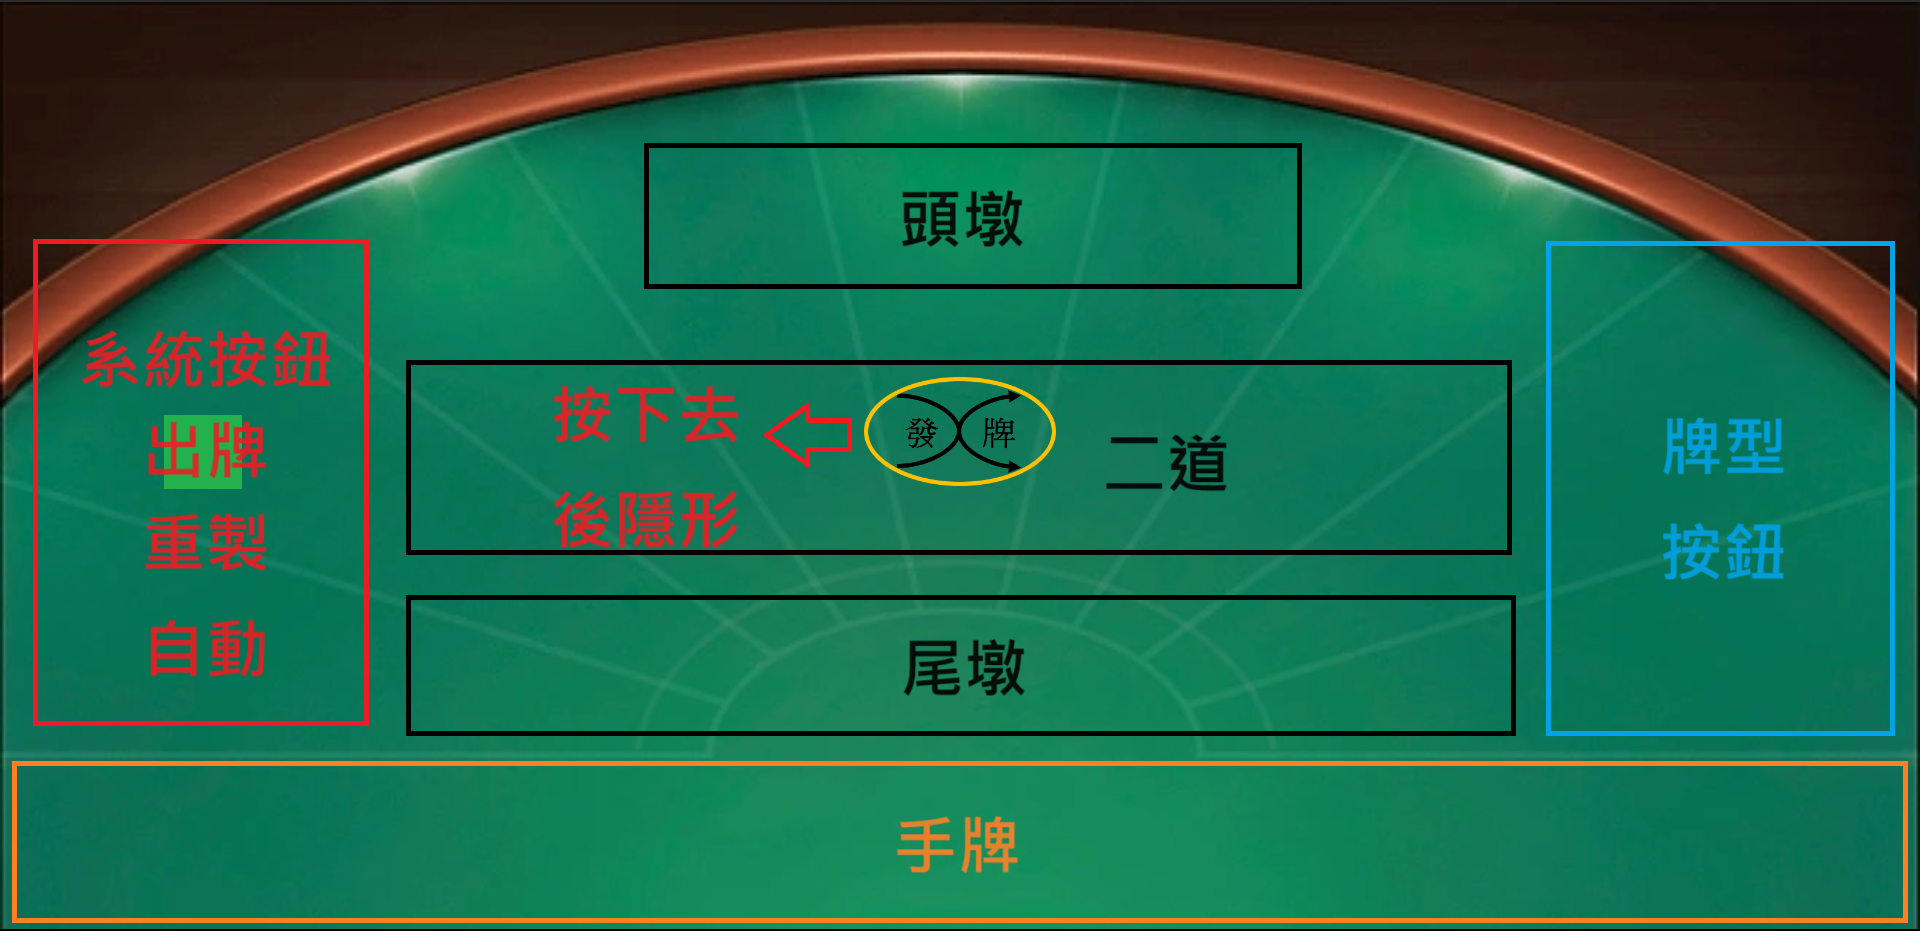
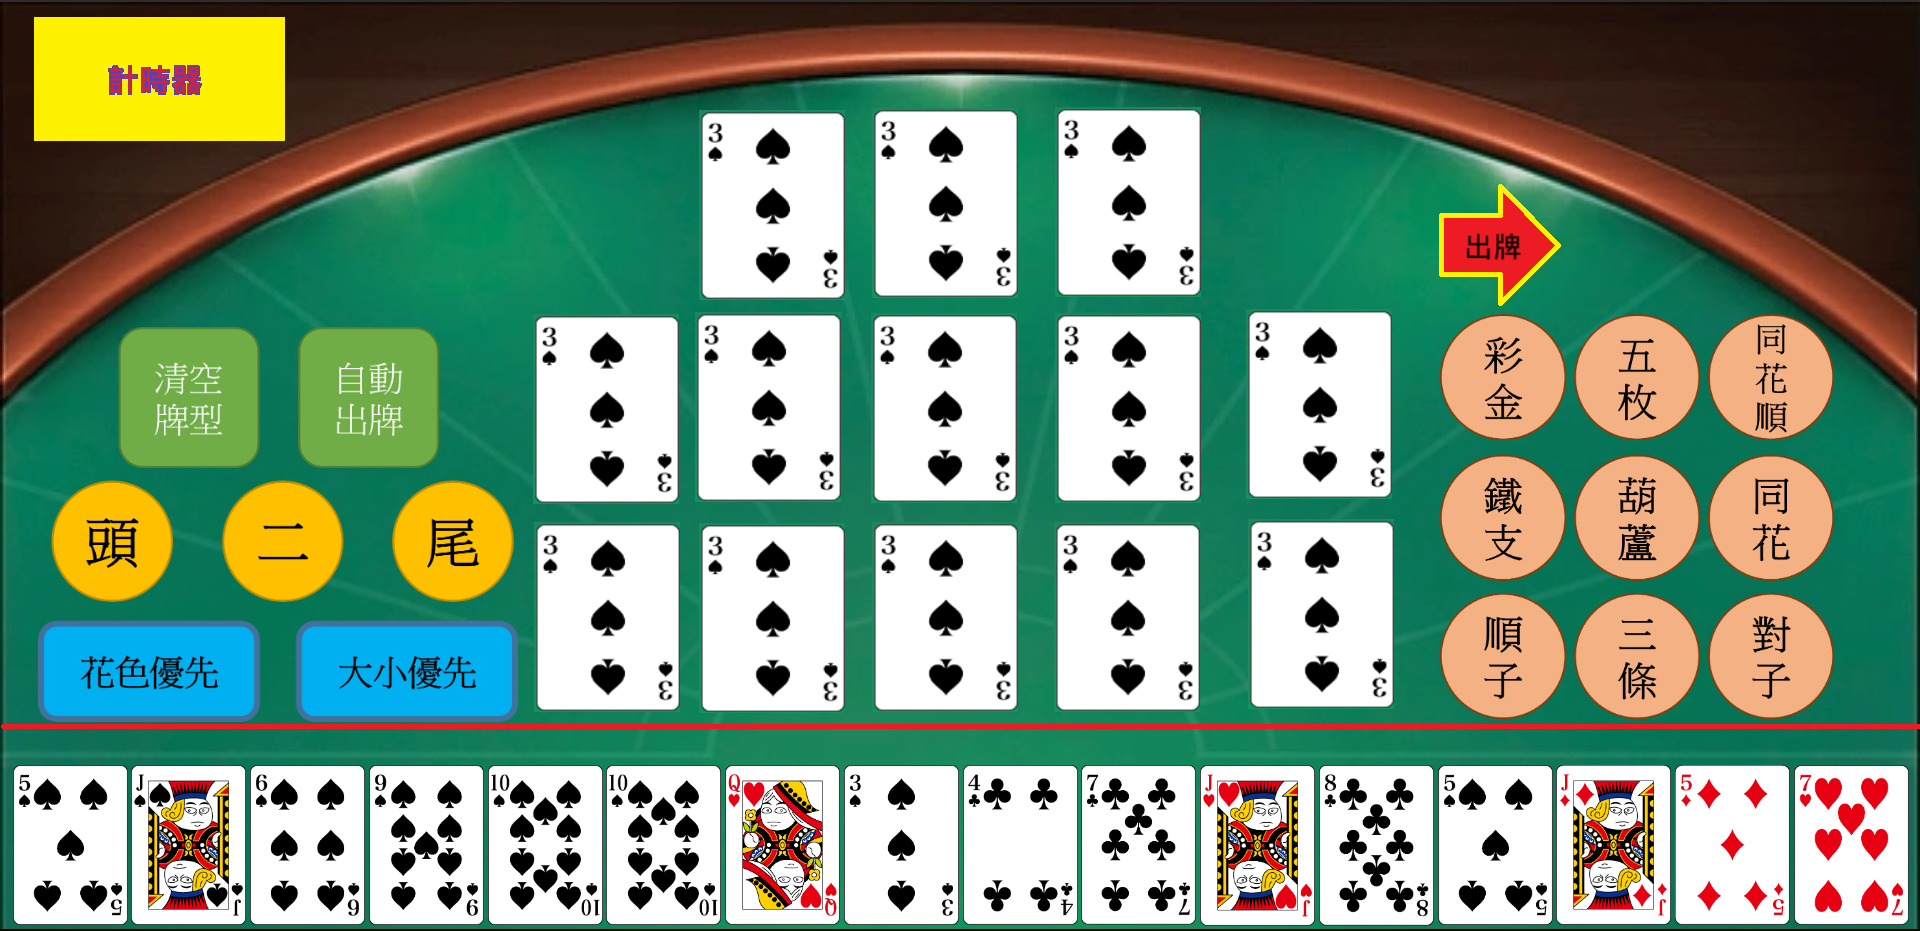
調整預想版面+發牌優化

diff --git a/13支-單人遊戲-01157108+01157103.html b/13支-單人遊戲-01157108+01157103.html
@@ -22,94 +22,120 @@
                 top:610px;
                 filter:drop-shadow(red);
             }
+            #test1{
+                position:absolute;
+                width:25%;
+                left:30px;
+                top:260px;
+            }
+            #test2 {
+                position: absolute;
+                height:45%;
+                left: 75%;
+                top: 245px;
+            }
         </style>
     </head >
     <body>
         <img src="imgs/發牌.png" onclick="deal()" id="deal" />
-        <img src="imgs/n0.png" id="p1" class="cards"/>
-        <img src="imgs/n0.png" id="p2" class="cards"/>
-        <img src="imgs/n0.png" id="p3" class="cards"/>
-        <img src="imgs/n0.png" id="p4" class="cards"/>
-        <img src="imgs/n0.png" id="p5" class="cards"/>
-        <img src="imgs/n0.png" id="p6" class="cards"/>
-        <img src="imgs/n0.png" id="p7" class="cards"/>
-        <img src="imgs/n0.png" id="p8" class="cards"/>
-        <img src="imgs/n0.png" id="p9" class="cards"/>
-        <img src="imgs/n0.png" id="p10" class="cards"/>
-        <img src="imgs/n0.png" id="p11" class="cards"/>
-        <img src="imgs/n0.png" id="p12" class="cards"/>
-        <img src="imgs/n0.png" id="p13" class="cards"/>
-        <img src="imgs/n0.png" id="p14" class="cards"/>
-        <img src="imgs/n0.png" id="p15" class="cards"/>
-        <img src="imgs/n0.png" id="p16" class="cards"/>
+        <img src="imgs/n0.png" id="p1" class="cards" />
+        <img src="imgs/n0.png" id="p2" class="cards" />
+        <img src="imgs/n0.png" id="p3" class="cards" />
+        <img src="imgs/n0.png" id="p4" class="cards" />
+        <img src="imgs/n0.png" id="p5" class="cards" />
+        <img src="imgs/n0.png" id="p6" class="cards" />
+        <img src="imgs/n0.png" id="p7" class="cards" />
+        <img src="imgs/n0.png" id="p8" class="cards" />
+        <img src="imgs/n0.png" id="p9" class="cards" />
+        <img src="imgs/n0.png" id="p10" class="cards" />
+        <img src="imgs/n0.png" id="p11" class="cards" />
+        <img src="imgs/n0.png" id="p12" class="cards" />
+        <img src="imgs/n0.png" id="p13" class="cards" />
+        <img src="imgs/n0.png" id="p14" class="cards" />
+        <img src="imgs/n0.png" id="p15" class="cards" />
+        <img src="imgs/n0.png" id="p16" class="cards" />
+        <img src="imgs/模擬1.png" id="test1" />
+        <img src="imgs/模擬2.png" id="test2" />
         <script>
             //有poker串列用0~64代表牌庫，index[0]是彩金牌，index[1]~[16]是玩家1，index[17]~[32]是玩家2，index[33]~[48]是玩家，index[49]~[64]是玩家3的手牌
             //牌型:數字1~13是梅花(c)1~13，14~26是方塊(d)1~13，27~39是紅心(h)1~13，40~65是(s)黑桃1~13共兩次
             let poker = new Array(65);
+            let playerA = new Array(16);
+            let playerB = new Array(16);
+            let playerC = new Array(16);
+            let playerD = new Array(16);
             let temp = 0;
             let word = "";
+            let i = 0;
             for (let i = 0; i < 65; i++) {//建立牌組
                 poker[i] = i + 1;
             }
-
             function shuffle() {//洗牌
                 poker.sort(() => Math.random() - 0.5);
             }
             function deal() {//洗牌並發牌給玩家
                 shuffle();
                 document.querySelector("#deal").style.display = "none";
-                for (let i = 1; i <= 16; i++) {//玩家有16張牌
-                    document.querySelector("#p" + i).style.left = (i - 1) * 95 + 10 + "px";
-                    temp = Math.floor(poker[i] / 13);
+                for (i = 1; i <= 16; i++) {//發牌(方便使用整理功能而重建)
+                    playerA[i - 1] = poker[i];
+                    playerB[i - 1] = poker[i + 16];
+                    playerC[i - 1] = poker[i + 32];
+                    playerD[i - 1] = poker[i + 48];
+                }
+                for (i = 0; i < 16; i++) {//顯示手牌
+                    document.querySelector("#p" + (i + 1)).style.left = i * 95 + 10 + "px";
+                    temp = Math.floor(playerA[i] / 13);
                     switch (temp) {
                         case 0://c
-                            word = "imgs/c" + poker[i] + ".png";
-                            document.getElementById("p" + i).src = word;
+                            word = "imgs/c" + playerA[i] + ".png";
+                            document.getElementById("p" + (i + 1)).src = word;
                             break;
                         case 1://d
-                            if (poker[i]-13 != 0) {
-                                word = "imgs/d" + (poker[i]-13) + ".png";
+                            if (playerA[i] - 13 != 0) {
+                                word = "imgs/d" + (playerA[i] - 13) + ".png";
                             }
                             else {
                                 word = "imgs/c" + 13 + ".png";
                             }
-                            document.getElementById("p" + i).src = word;
+                            document.getElementById("p" + (i + 1)).src = word;
                             break;
                         case 2://h
-                            if (poker[i] - 26 != 0) {
-                                word = "imgs/h" + (poker[i] - 26) + ".png";
+                            if (playerA[i] - 26 != 0) {
+                                word = "imgs/h" + (playerA[i] - 26) + ".png";
                             }
                             else {
                                 word = "imgs/d" + 13 + ".png";
                             }
-                            document.getElementById("p" + i).src = word;
+                            document.getElementById("p" + (i + 1)).src = word;
                             break;
                         case 3://s
-                            if (poker[i] - 39 != 0) {
-                                word = "imgs/s" + (poker[i] - 39) + ".png";
+                            if (playerA[i] - 39 != 0) {
+                                word = "imgs/s" + (playerA[i] - 39) + ".png";
                             }
                             else {
                                 word = "imgs/h" + 13 + ".png";
                             }
-                            document.getElementById("p" + i).src = word;
+                            document.getElementById("p" + (i + 1)).src = word;
                             break;
-                        case 4://s                           
-                            if (poker[i] - 52 != 0) {
-                                word = "imgs/s" + (poker[i] - 52) + ".png";
+                        case 4://s
+                            if (playerA[i] - 52 != 0) {
+                                word = "imgs/s" + (playerA[i] - 52) + ".png";
                             }
                             else {
                                 word = "imgs/s" + 13 + ".png";
-                            }                          
-                            document.getElementById("p" + i).src = word;
+                            }
+                            document.getElementById("p" + (i + 1)).src = word;
                             break;
                         case 5://s
                             word = "imgs/s" + 13 + ".png";
-                            document.getElementById("p" + i).src = word;
+                            document.getElementById("p" + (i + 1)).src = word;
                             break;
-                    }                    
-                    document.querySelector("#p" + i).style.display = "initial";//未來有機會改成用動畫              
+                    }
+                    document.querySelector("#p" + (i + 1)).style.display = "initial";//未來有機會改成用動畫
                 }
                 console.log(poker);//檢查用，後面要刪除
+                console.log(playerA);//檢查用，後面要刪除
+
                 operate();
             }
             function operate() {
